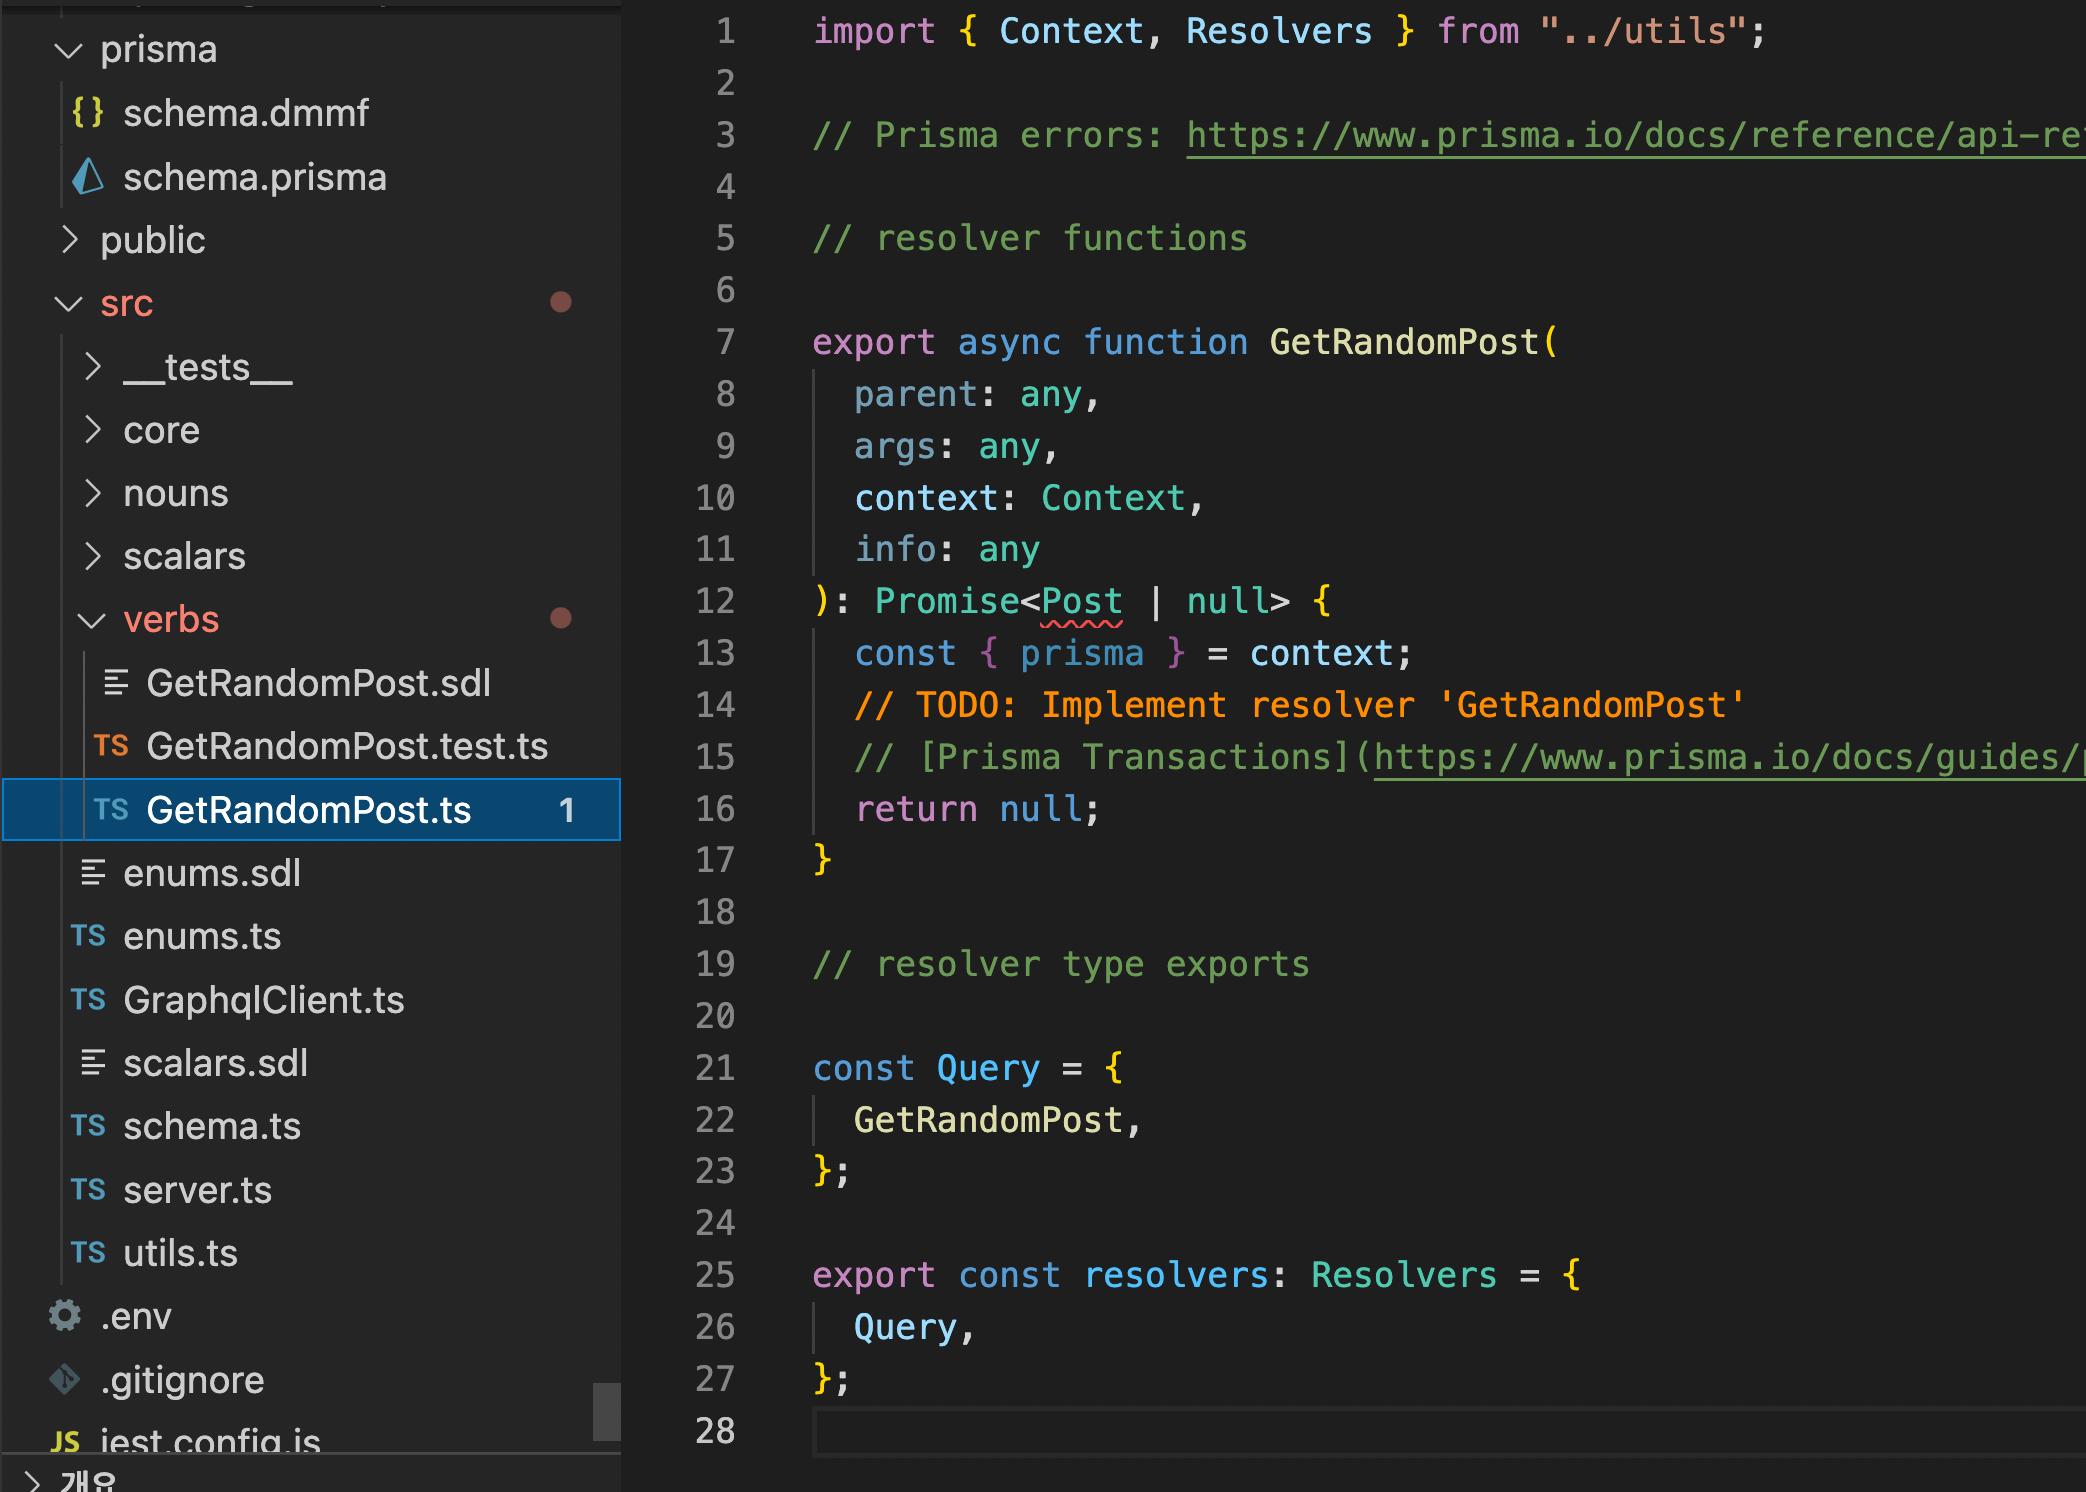
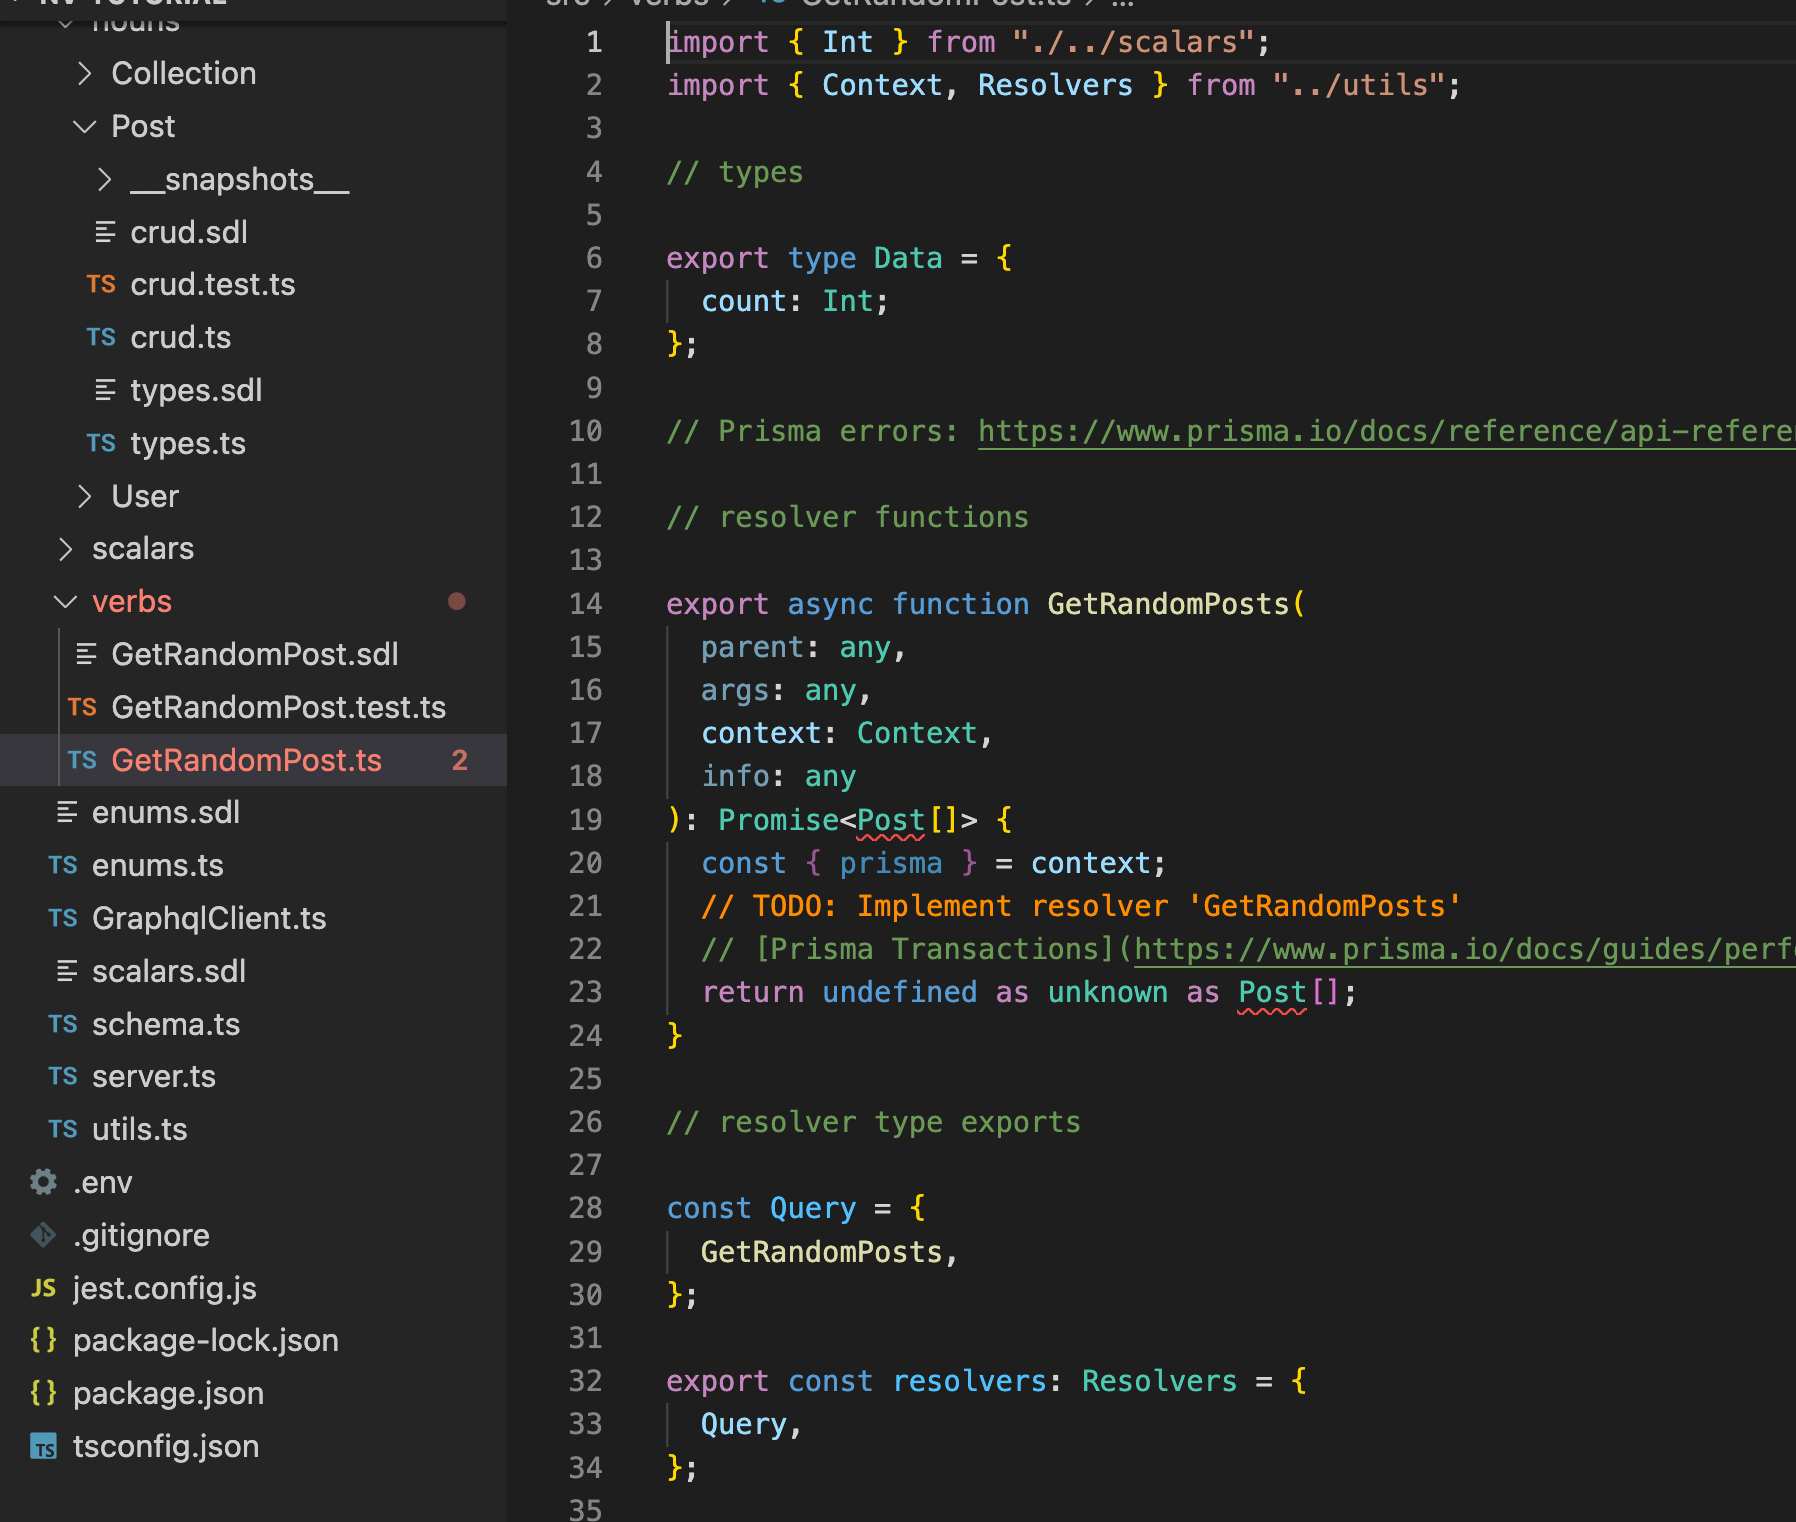
Add args to custom verb

diff --git a/docs/getting-started/tutorial.md b/docs/getting-started/tutorial.md
@@ -279,8 +279,12 @@ Since there's no hidden, or `Noun & Verb` specific code in the generated output,
 The most common thing you might want to do is adding new operation(Custom verb). So we generated most of the boilerplate code for you. Let's see how it works by adding `getRandomPost` query!
 
 ```graphql
+input Data {
+    count: Int!
+}
+
 extend type Query {
-  GetRandomPost: Post,
+  GetRandomPosts(data: Data!): [Post!]!,
 }
 ```
 
@@ -298,11 +302,14 @@ export async function GetRandomPost(
   info: any
 ): Promise<Post | null> {
   const { prisma } = context;
+  const { data: { count } } = args;
 
   const total =  await prisma.post.count();
+  const skip = Math.floor(Math.random() * (total - count));
 
-  const ret = await prisma.post.findFirst({
-    skip: Math.floor(Math.random() * total)
+  const ret = await prisma.post.findMany({
+    take: count,
+    skip
   })
 
   return ret;
